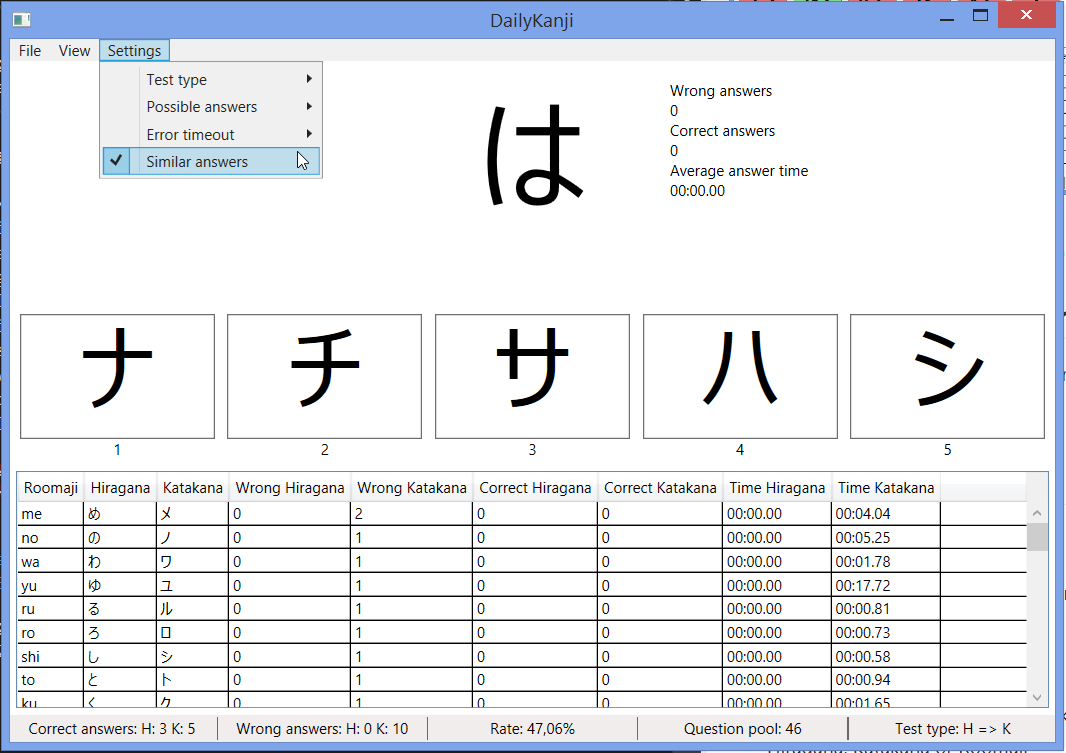
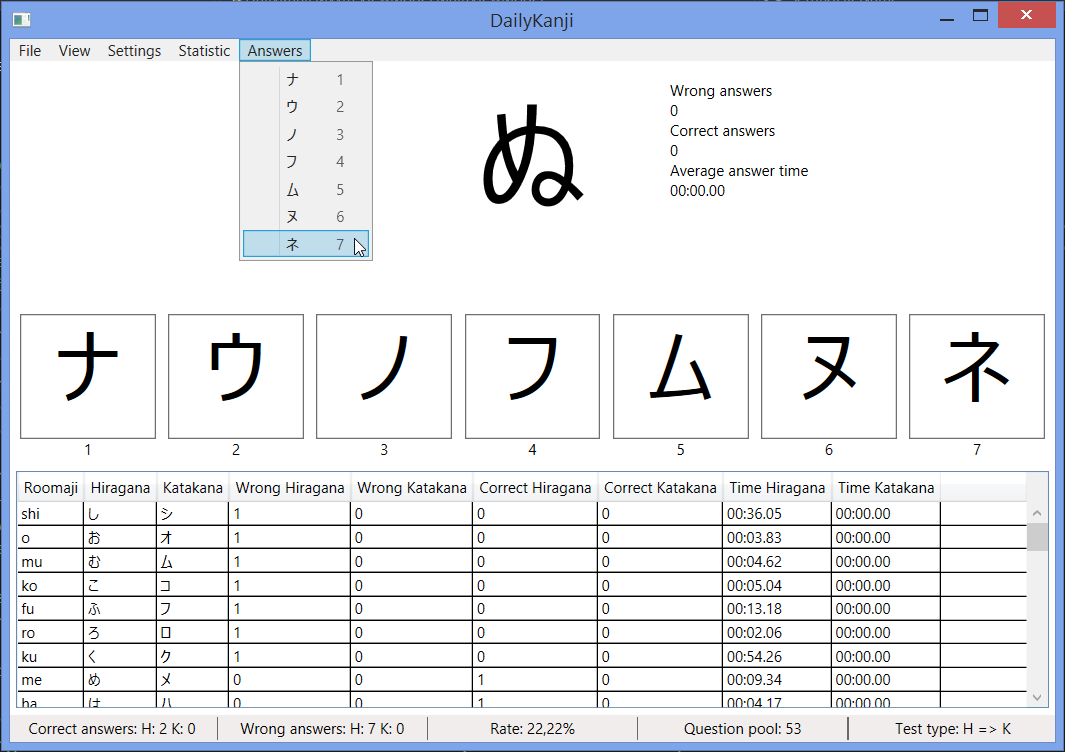
Add menu with possible answers (and shortcuts)

diff --git a/DailyKanji/Mvvm/View/MainWindow.xaml b/DailyKanji/Mvvm/View/MainWindow.xaml
@@ -357,6 +357,8 @@
 
             </MenuItem>
 
+            <MenuItem x:Name="AnswerMenu" Header="Answers" />
+
         </Menu>
 
         <Grid Grid.Row="2" Height="200">

diff --git a/DailyKanji/Mvvm/ViewModel/MainViewModel.cs b/DailyKanji/Mvvm/ViewModel/MainViewModel.cs
@@ -17,7 +17,6 @@ namespace DailyKanji.Mvvm.ViewModel
     // TODO: Show hint based on selected current ask sign on test type "Hiragana or Katakana to Roomaji"
     // TODO: Add test type for "Hiragana or Katakana to Katakana or Hiragana"
     // TODO: Add test type for all -> "Hiragana, Katakana or Roomaji to Hiragana, Katakana or Roomaji"
-    // TODO: Add new answers sub-menu (show current answer inside menu entry with shortcut)
     // TODO: Add more menu entry to reset individual things of the statistics
     // TODO: Recalculate buttons (button width), when window is resized
     // TODO: Visible timer in 0.1 second (can be deactivated via menu)
@@ -122,7 +121,7 @@ namespace DailyKanji.Mvvm.ViewModel
             BuildNewQuestionList();
             ChooseNewSign();
             ChooseNewPossibleAnswers();
-            BuildAnswerButtons();
+            BuildAnswerMenuAndButtons();
 
             Model.IgnoreInput   = false;
             Model.TestStartTime = DateTime.UtcNow;
@@ -354,7 +353,7 @@ namespace DailyKanji.Mvvm.ViewModel
             _mainWindow.Dispatcher.Invoke(new Action(() =>
             {
                 SetAnswerColors();
-                BuildAnswerButtons();
+                BuildAnswerMenuAndButtons();
             }));
 
             var timer = new System.Timers.Timer(Model.ErrorTimeout)
@@ -418,12 +417,13 @@ namespace DailyKanji.Mvvm.ViewModel
                 : Model.NewQuestionList.ElementAtOrDefault(Model.Randomizer.Next(0, Model.NewQuestionList.Count));
 
         /// <summary>
-        /// Build all answer buttons (with text and colours)
+        /// Build all answer menu entries and buttons
         /// </summary>
-        internal void BuildAnswerButtons()
+        internal void BuildAnswerMenuAndButtons()
             => _mainWindow?.Dispatcher?.Invoke(new Action(() =>
             {
                 _mainWindow.AnswerButtonArea.Children.Clear();
+                _mainWindow.AnswerMenu.Items.Clear();
 
                 for(var answerNumber = 0; answerNumber < Model.MaximumAnswer; answerNumber++)
                 {
@@ -486,15 +486,6 @@ namespace DailyKanji.Mvvm.ViewModel
                     }
 
                     var stackPanel = new StackPanel();
-
-                    var hintText = new TextBlock
-                    {
-                        FontSize            = 32,
-                        Foreground          = Model.HintTextColor[answerNumber],
-                        HorizontalAlignment = HorizontalAlignment.Center,
-                        Text                = hint,
-                    };
-
                     var buttonText = new TextBlock
                     {
                         FontSize          = 100 - (5 * Model.MaximumAnswer),
@@ -503,7 +494,15 @@ namespace DailyKanji.Mvvm.ViewModel
                         VerticalAlignment = VerticalAlignment.Center
                     };
 
-                    var button = new Button
+                    stackPanel.Children.Add(new TextBlock
+                    {
+                        FontSize            = 32,
+                        Foreground          = Model.HintTextColor[answerNumber],
+                        HorizontalAlignment = HorizontalAlignment.Center,
+                        Text                = hint
+                    });
+
+                    stackPanel.Children.Add(new Button
                     {
                         Background       = Model.AnswerButtonColor[answerNumber],
                         Command          = AnswerTest,
@@ -512,20 +511,24 @@ namespace DailyKanji.Mvvm.ViewModel
                         Height           = 100,
                         Margin           = new Thickness(5, 0, 5, 0),
                         Width            = (_mainWindow.Width - 20 - (10 * Model.MaximumAnswer)) / Model.MaximumAnswer
-                    };
+                    });
 
-                    var noteText = new TextBlock
+                    stackPanel.Children.Add(new TextBlock
                     {
                         FontSize            = 12,
                         HorizontalAlignment = HorizontalAlignment.Center,
                         Text                = $"{answerNumber + 1}",
-                    };
-
-                    stackPanel.Children.Add(hintText);
-                    stackPanel.Children.Add(button);
-                    stackPanel.Children.Add(noteText);
+                    });
 
                     _mainWindow.AnswerButtonArea.Children.Add(stackPanel);
+
+                    _mainWindow.AnswerMenu.Items.Add(new MenuItem
+                    {
+                        Command          = AnswerTest,
+                        CommandParameter = Model.PossibleAnswers[answerNumber],
+                        Header           = text,
+                        InputGestureText = $"{answerNumber + 1}"
+                    });
                 }
             }));
 

diff --git a/DailyKanji/Mvvm/ViewModel/MainViewModelCommands.cs b/DailyKanji/Mvvm/ViewModel/MainViewModelCommands.cs
@@ -35,7 +35,7 @@ namespace DailyKanji.Mvvm.ViewModel
                 {
                     Model.MaximumAnswer = Convert.ToByte(value);
                     ChooseNewPossibleAnswers();
-                    BuildAnswerButtons();
+                    BuildAnswerMenuAndButtons();
                 });
 
         public ICommand ChangeAnswerMode
@@ -43,7 +43,7 @@ namespace DailyKanji.Mvvm.ViewModel
                 =>
                 {
                     ChooseNewPossibleAnswers();
-                    BuildAnswerButtons();
+                    BuildAnswerMenuAndButtons();
                 });
 
         public ICommand AnswerTest

diff --git a/readme.md b/readme.md
@@ -10,6 +10,7 @@ in development
   * Hiragana or Katakana to Roomaji, Only Hiragana to Roomaji, Only Katakana to Roomaji
   * Roomaji to Hiragana or Katakana, Only Roomaji to Hiragana, Only Roomaji to Katakana
   * Only Hiragana to Katakana, Only Katakana to Hiragana
+* Test can be answered via left mouse click, number key and menu
 * Highlight wrong and correct answers, when answer was wrong
 * Show hint of all possible answers, when answer was wrong (can be deactivated via menu)
 * Count answer time (separates counter for Hiragana and Katakana)
@@ -37,7 +38,6 @@ Open a issue ticket or make a pull request
 * Add test type for "Hiragana or Katakana to Katakana or Hiragana"
 * Add test type for all -> "Hiragana, Katakana or Roomaji to Hiragana, Katakana or Roomaji"
 * Add more menu entry to reset individual things of the statistics
-* Add new answers sub-menu (show current answer inside menu entry with shortcut)
 * Recalculate buttons (button width), when window is resized
 * Visible timer in 0.1 second (can be deactivated via menu)
 * Add running progress bar with selectable maximum answer time
